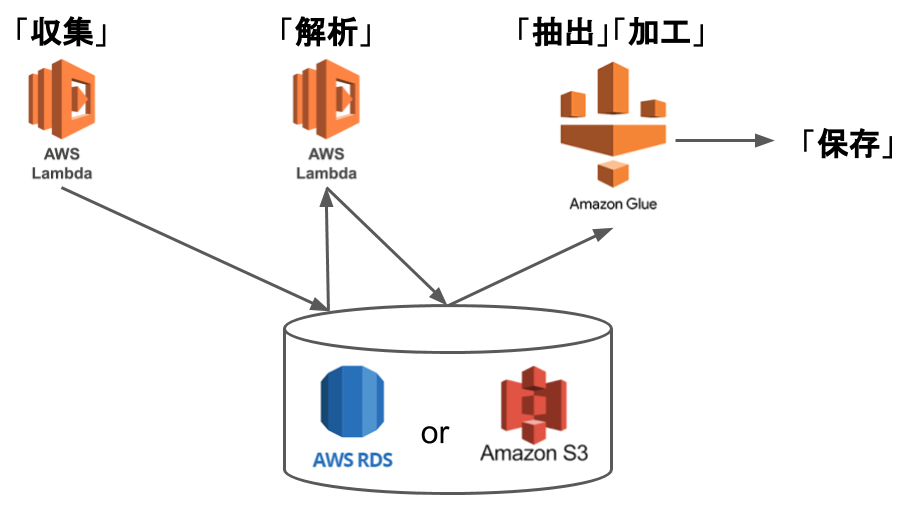
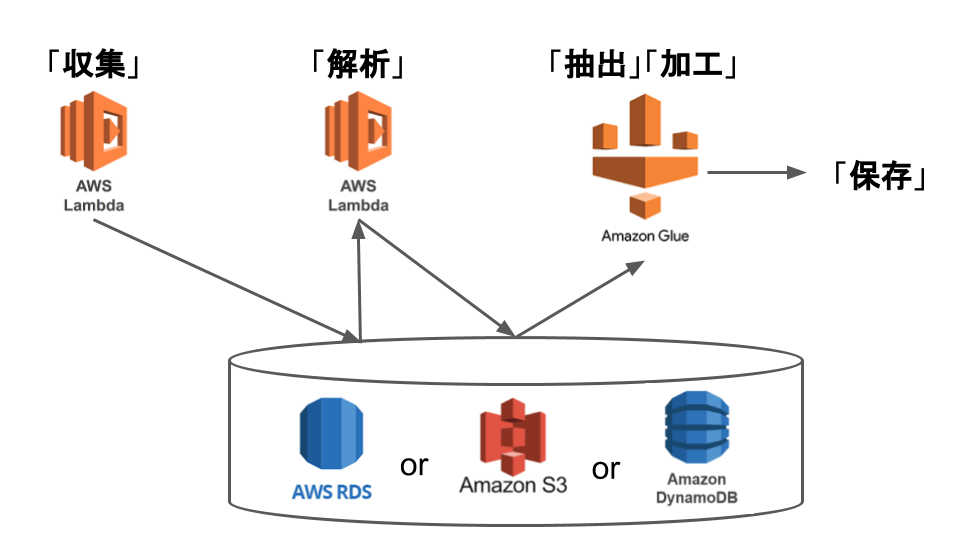
update アーキテクチャ設計図

diff --git a/docs/ビジスルール/README.md b/docs/ビジスルール/README.md
@@ -2,6 +2,10 @@
 ## 設計
 「出力結果として何が欲しいか」が「目的」になるでしょう。スプレッドシートに特定の数値のみを反映するのか、他のシステムと連携するためのAPIを作るのか、自分のサイトで読み込むためのフィードを作るのか、出力結果のイメージを明確にしておくことで必要十分な設計が行えます。
 
+```
+「収集」→「解析」→「抽出」→「加工」→「保存」→「出力」
+```
+
  1. **収集**: ネットワーク上のデータにリクエストする。リンクがあれば収集し、さらにそれらのリンクに対してもリクエストする
  2. **解析**: パース。テキストデータを構造化データに変換する
  3. **抽出**: 対象データを構造化データの特定のキーから取り出したり、スクレイピングや正規表現を使って抽出する

diff --git a/docs/アーキテクチャ設計/アーキテクチャ設計.md b/docs/アーキテクチャ設計/アーキテクチャ設計.md
@@ -7,5 +7,6 @@
 
  - [Amazon RDS for MySQL （MySQLのためのマネージドリレーショナルデータベース） | AWS](https://aws.amazon.com/jp/rds/mysql/)
  - [Amazon S3（拡張性と耐久性を兼ね揃えたクラウドストレージ）｜AWS](https://aws.amazon.com/jp/s3/)
+ - [Amazon DynamoDB（マネージド NoSQL データベース）| AWS](https://aws.amazon.com/jp/dynamodb/)
 
 ![](./img/アーキテクチャ設計図.png)

diff --git a/docs/参考文献.md b/docs/参考文献.md
@@ -1,0 +1,5 @@
+# 参考文献
+
+ - https://speakerdeck.com/chanmoro/lapras-kurorafalsebian-qian
+ - https://techblog.zozo.com/entry/crawler_operation
+ - [大規模Webアーカイブのための更新クローラの設計と実装](https://www.ieice.org/~de/DEWS/DEWS2007/pdf/b9-5.pdf)
